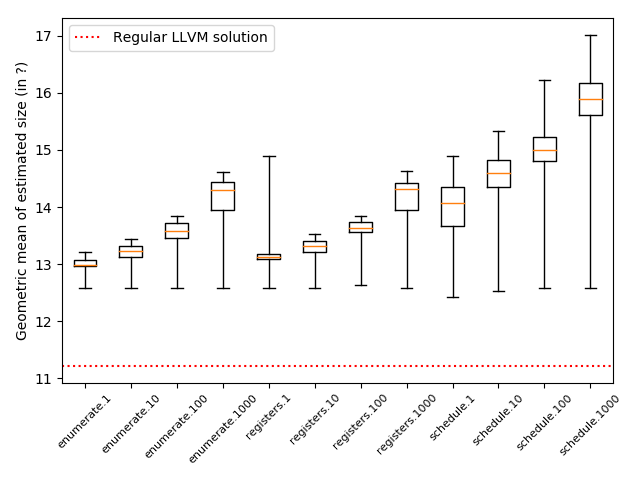
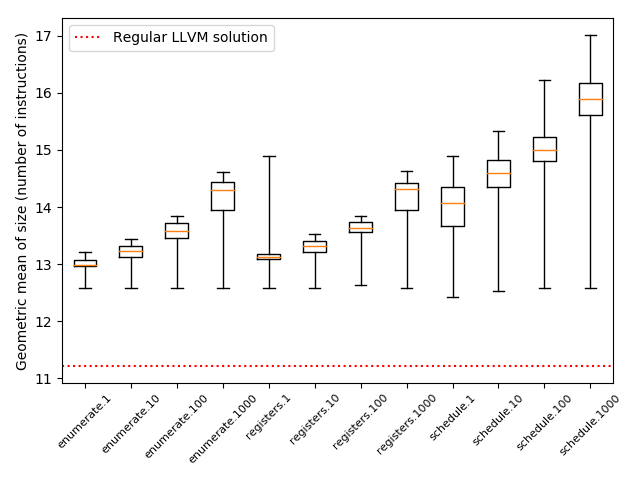
Add unit to code size measurement

Changed region(s): [[0.0, 0.0625, 0.0625, 0.7812]]

diff --git a/scripts/cost_analysis.py b/scripts/cost_analysis.py
@@ -72,7 +72,7 @@ fig, size_bp = plt.subplots(1,1)
 #fig.suptitle("Distributions of the geometric mean between the estimated size of each function in program versions")
 
 size_bp.boxplot(sizes, whis="range")
-size_bp.set_ylabel("Geometric mean of estimated size (in ?)")
+size_bp.set_ylabel("Geometric mean of size (number of instructions)")
 size_xtickNames = plt.setp(size_bp, xticklabels=labels)
 plt.setp(size_xtickNames, rotation=45, fontsize=8)
 size_bp.axhline(y=llvm_cost["size"], color="r", linestyle=":", label="Regular LLVM solution")
